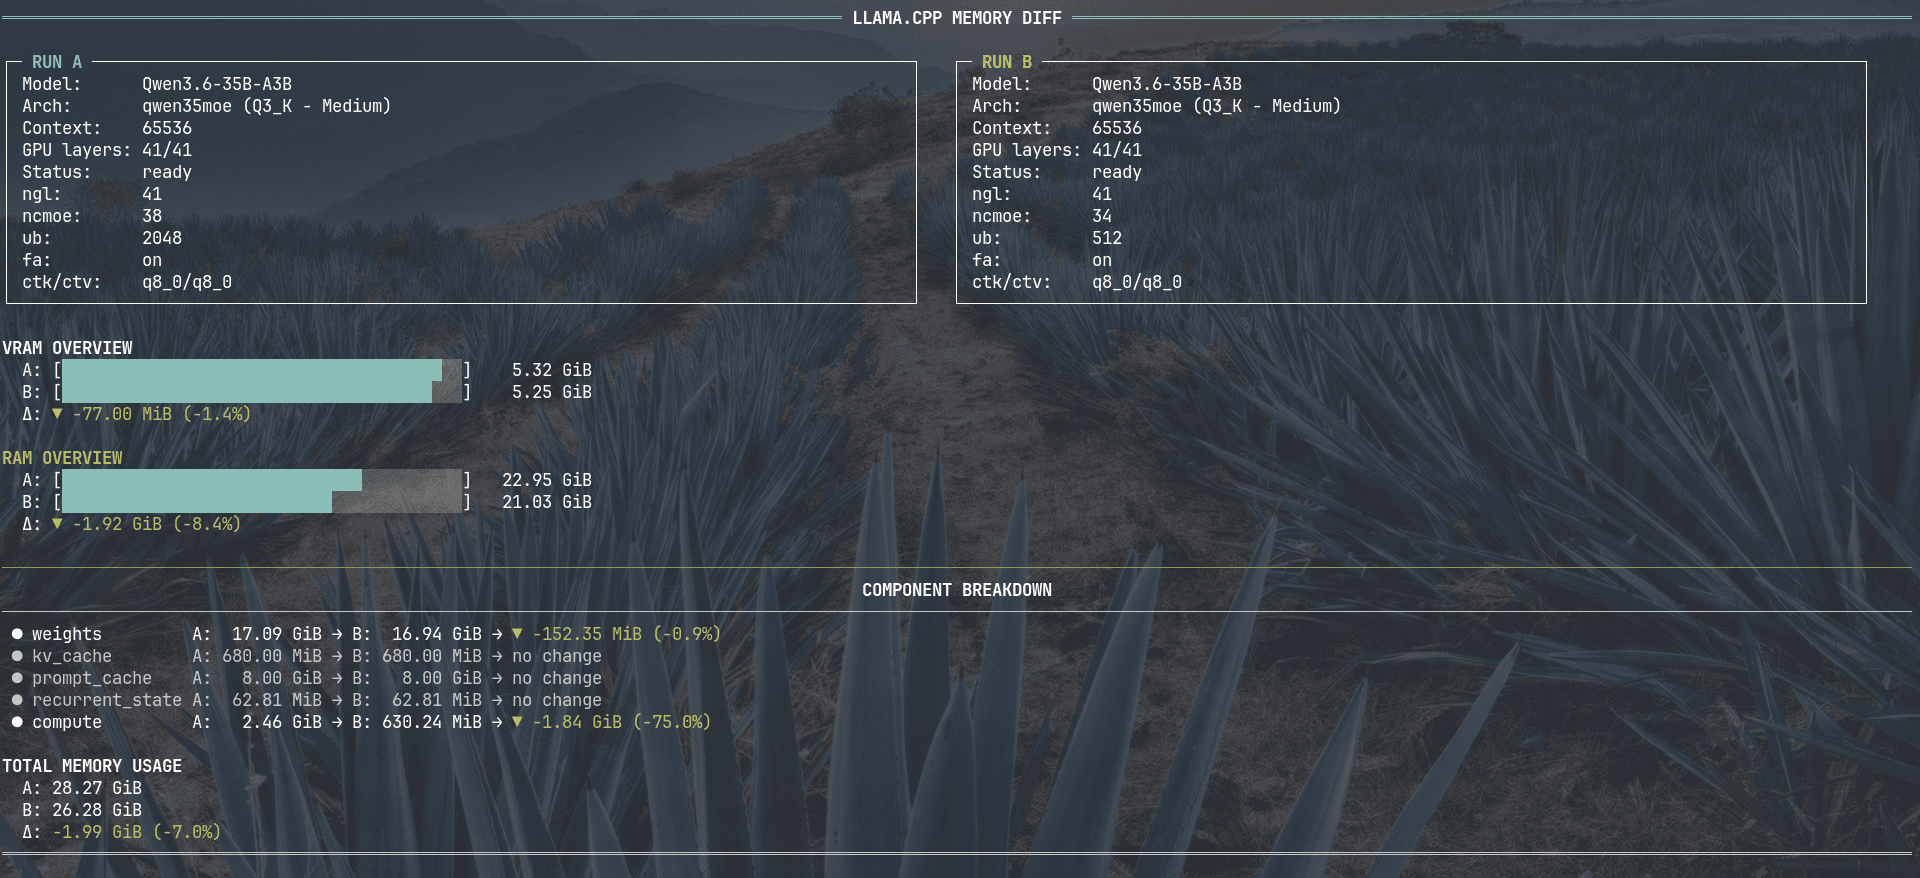
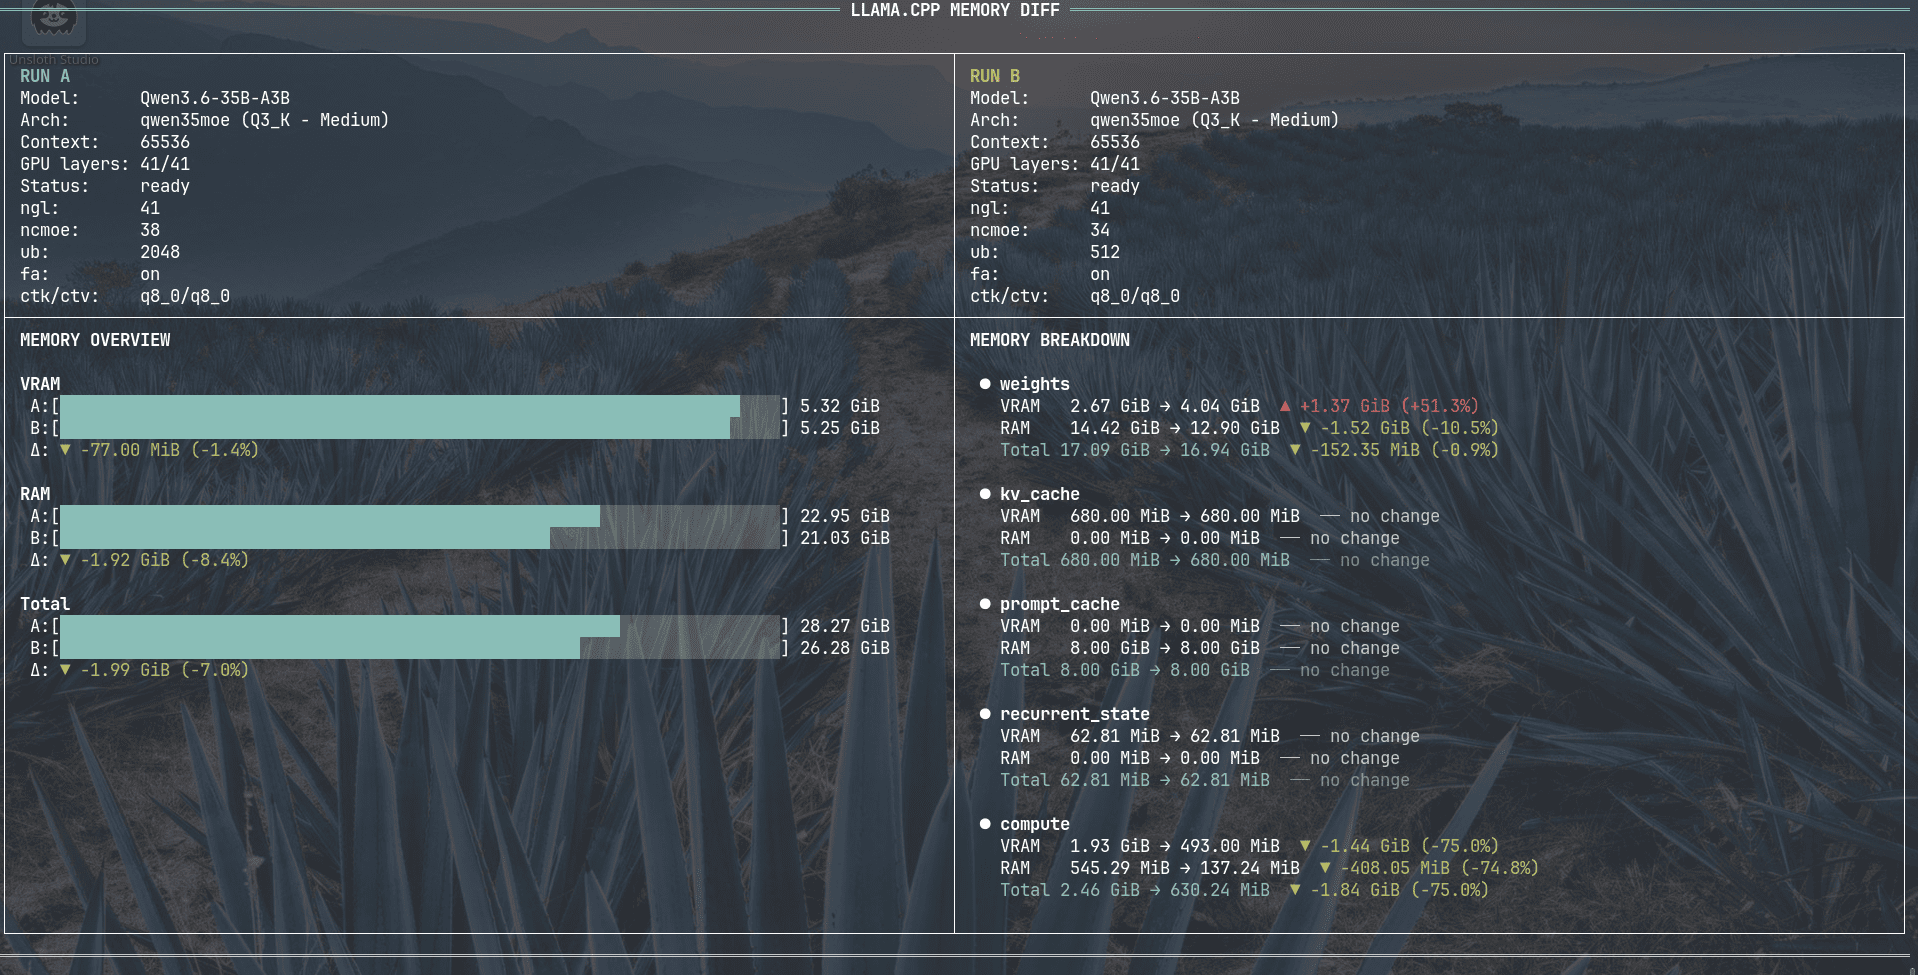
upd diff

diff --git a/llama-mem-diff.py b/llama-mem-diff.py
@@ -130,10 +130,10 @@ def main():
     lines_a += [""] * (max_r1 - len(lines_a))
     lines_b += [""] * (max_r1 - len(lines_b))
 
-    # ── Row 2: OVERVIEW | MEMORY BREAKDOWN ──
+    # ── Row 2: MEMORY OVERVIEW | MEMORY BREAKDOWN ──
     bar_w = max(10, cell_w - 22)
 
-    lines_vram = [f" {BOLD}OVERVIEW{RESET}", ""]
+    lines_vram = [f" {BOLD}MEMORY OVERVIEW{RESET}", ""]
     for pool in ["VRAM", "RAM"]:
         t1 = a["allocated"][pool]["total_mib"]
         t2 = b["allocated"][pool]["total_mib"]
@@ -157,6 +157,31 @@ def main():
         lines_vram.append(f"  Δ: {diff_str}")
         lines_vram.append("")
 
+    # Total memory with bars (moved into OVERVIEW, no VRAM/RAM duplication)
+    total_a = a["grand_total_mib"]
+    total_b = b["grand_total_mib"]
+    total_cap = (
+        max(a["allocated"]["VRAM"].get("capacity_mib", 0), b["allocated"]["VRAM"].get("capacity_mib", 0)) +
+        max(a["allocated"]["RAM"].get("capacity_mib", 0), b["allocated"]["RAM"].get("capacity_mib", 0))
+    )
+    diff = total_b - total_a
+
+    bar1 = draw_bar(total_a, total_cap, width=bar_w)
+    bar2 = draw_bar(total_b, total_cap, width=bar_w)
+
+    if diff < 0:
+        diff_str = f"{GREEN}▼ {fmt_mem(diff)} (-{abs(diff/total_a)*100:.1f}%){RESET}" if total_a > 0 else f"{GREEN}▼ {fmt_mem(diff)}{RESET}"
+    elif diff > 0:
+        diff_str = f"{RED}▲ +{fmt_mem(diff)} (+{diff/total_a*100:.1f}%){RESET}" if total_a > 0 else f"{RED}▲ +{fmt_mem(diff)}{RESET}"
+    else:
+        diff_str = f"{DIM}no change{RESET}"
+
+    lines_vram.append(f" {BOLD}Total{RESET}")
+    lines_vram.append(f"  A:[{bar1}] {fmt_mem(total_a)}")
+    lines_vram.append(f"  B:[{bar2}] {fmt_mem(total_b)}")
+    lines_vram.append(f"  Δ: {diff_str}")
+    lines_vram.append("")
+
     # ── Memory breakdown: VRAM / RAM / Total per component ──
     lines_comp = [f" {BOLD}MEMORY BREAKDOWN{RESET}", ""]
 
@@ -178,34 +203,14 @@ def main():
         for label, va, vb in [("VRAM", va_vram, vb_vram),
                                ("RAM",  va_ram,  vb_ram),
                                ("Total", va_total, vb_total)]:
-            if va == 0 and vb == 0:
-                continue
             diff_line = fmt_diff(va, vb)
-            lines_comp.append(f"    {label.ljust(6)} {fmt_mem(va)} → {fmt_mem(vb)}  {diff_line}")
+            if label == "Total":
+                colored_diff = diff_line.replace(RESET, CYAN)
+                lines_comp.append(f"    {CYAN}Total {RESET}{CYAN}{fmt_mem(va)} → {fmt_mem(vb)}  {colored_diff}{RESET}")
+            else:
+                lines_comp.append(f"    {label.ljust(6)} {fmt_mem(va)} → {fmt_mem(vb)}  {diff_line}")
 
         lines_comp.append("")
-
-    # ── Total summary: VRAM / RAM / Total ──
-    total_a_vram = a["allocated"]["VRAM"]["total_mib"]
-    total_a_ram  = a["allocated"]["RAM"]["total_mib"]
-    total_b_vram = b["allocated"]["VRAM"]["total_mib"]
-    total_b_ram  = b["allocated"]["RAM"]["total_mib"]
-    total_a = a["grand_total_mib"]
-    total_b = b["grand_total_mib"]
-
-    lines_comp.append(f" {BOLD}TOTAL MEMORY{RESET}")
-    lines_comp.append("")
-
-    for label, ta, tb in [("VRAM", total_a_vram, total_b_vram),
-                           ("RAM",  total_a_ram,  total_b_ram),
-                           ("Total", total_a, total_b)]:
-        diff = tb - ta
-        diff_color = GREEN if diff < 0 else (RED if diff > 0 else DIM)
-        diff_pct = f"({diff/ta*100:+.1f}%)" if ta > 0 else ""
-        if abs(diff) < 0.01:
-            lines_comp.append(f"  {DIM}{label.ljust(6)} {fmt_mem(ta)}  ── no change{RESET}")
-        else:
-            lines_comp.append(f"  {label.ljust(6)} {fmt_mem(ta)} → {fmt_mem(tb)}  {diff_color}{fmt_mem(diff)} {diff_pct}{RESET}")
 
     max_r2 = max(len(lines_vram), len(lines_comp))
     lines_vram += [""] * (max_r2 - len(lines_vram))